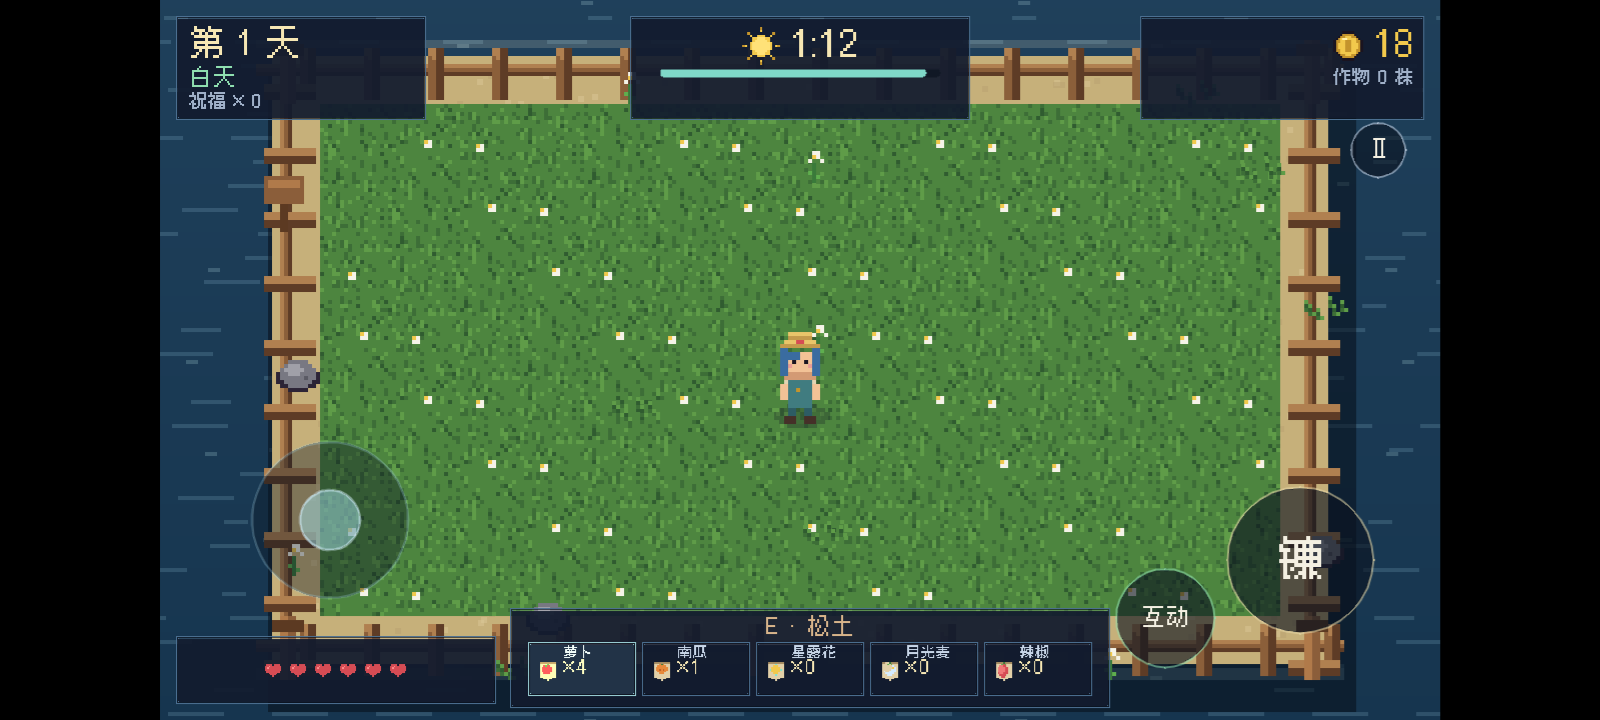
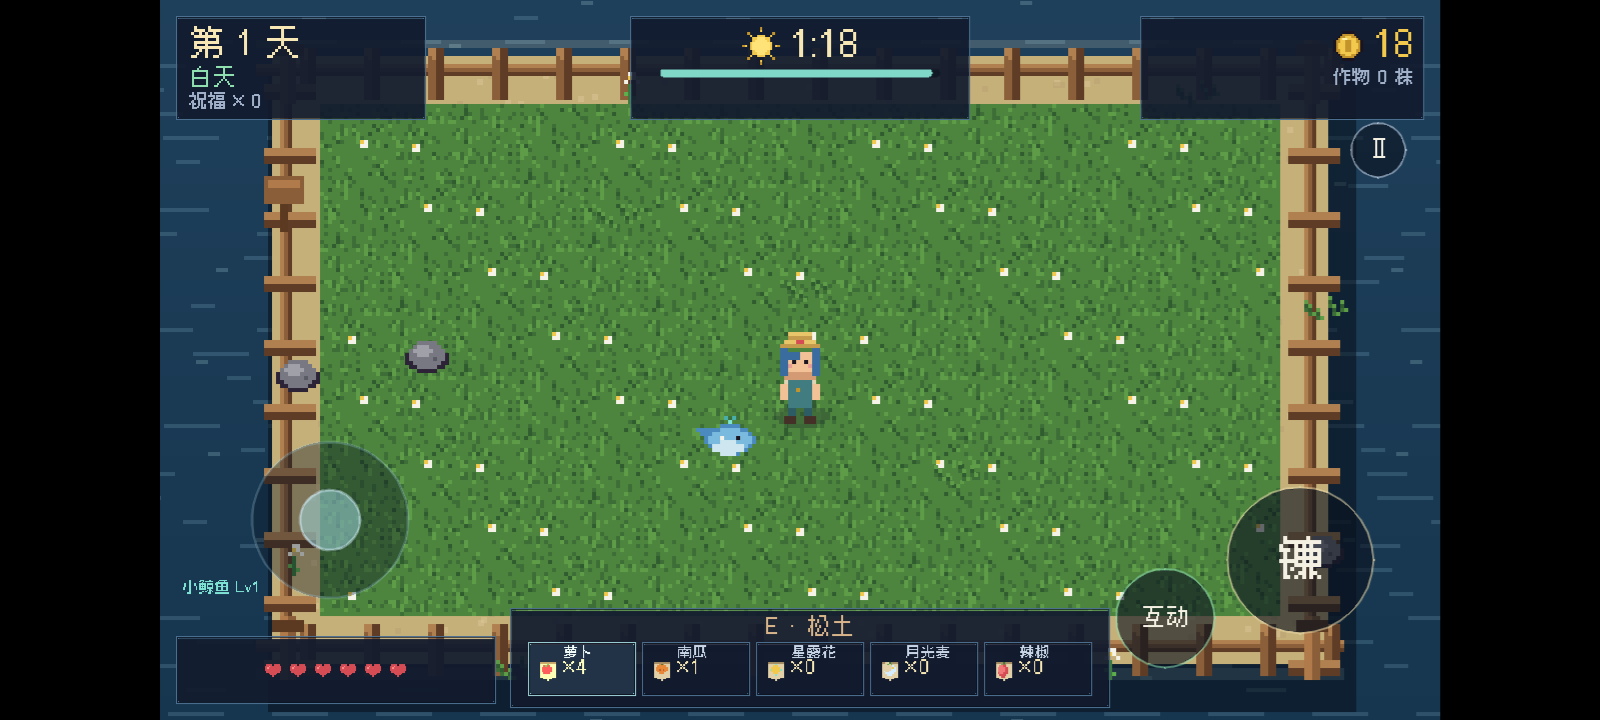
v2.0.0: 20 updates complete (pet levels, mist harbor, performance, final balance)

diff --git a/README.md b/README.md
@@ -11,6 +11,7 @@
 ![雨天](screenshots/shot_rain.png)
 ![雷雨](screenshots/shot_storm.png)
 ![图鉴](screenshots/shot_codex.png)
+![雾港](screenshots/shot_mist.png)
 ![南瓜王](screenshots/shot_boss.png)
 
 ## 玩法
@@ -21,8 +22,9 @@
 - **黎明**：三选一随机祝福，然后可以在**潮汐商店**用金币买种子、回血、加生命上限。
 - **成就**：8 个成就（首收、50 收、50 杀、第 5 天、Boss、无尽 10 天、金色作物、雷雨）解锁时弹横幅并写入存档。
 - **农场图鉴 / 统计**：标题界面打开图鉴，查看已发现的作物、怪物、祝福；统计页记录游玩局数、最佳天数、累计收获/击杀/金币。
+- **第二张地图「雾港」**：通关过一局后，约 30% 的局会进入雾港——冷色调、淡雾、作物生长 +15%，夜里多一只怪。
 - **每日挑战**：标题界面按当天日期生成固定种子，同一天所有玩家地形/天气/祝福一致；本地记录每日最佳天数。
-- **小鲸鱼**：开局跟随玩家，自动攻击附近的怪物；收获作物会让它成长（每 10 个收获升 1 级）。
+- **小鲸鱼**：开局跟随玩家，自动攻击附近的怪物；收获作物会让它成长（每 10 个收获升 1 级，等级显示在左下）。
 - **设置**：暂停菜单可关震屏、弱化闪光、开自动瞄准；手机端还有震动开关。
 - **第 7 夜**：腐化南瓜王苏醒。它会吐种子弹、在血量过半和残血时召唤潮泥怪；打倒它才能迎来胜利。
 - **无尽模式**：通关后可以继续。每 3 天再战一次南瓜王，怪潮越来越厚，直到农场沉没。最佳纪录按存活天数结算。
@@ -65,8 +67,8 @@
 
 到 [Releases](https://github.com/ElectLive/whale-fall-farm/releases) 下载最新版：
 
-- Windows：`WhaleFallFarm-v1.6.0-win64.zip` — 解压双击 `WhaleFallFarm.exe`，绿色免安装，存档在 exe 旁边。
-- Android：`WhaleFallFarm-v1.6.0-android.apk` — Android 7.0+ / arm64，允许「安装未知来源应用」即可安装。APK 使用调试证书签名，适合直接安装试玩，不适合上架应用商店。
+- Windows：`WhaleFallFarm-v2.0.0-win64.zip` — 解压双击 `WhaleFallFarm.exe`，绿色免安装，存档在 exe 旁边。
+- Android：`WhaleFallFarm-v2.0.0-android.apk` — Android 7.0+ / arm64，允许「安装未知来源应用」即可安装。APK 使用调试证书签名，适合直接安装试玩，不适合上架应用商店。
 
 ## 从源码运行
 
@@ -111,7 +113,7 @@ python tools/gen_audio.py   # 4 首循环 BGM + 17 个音效 + 1 条雨声（需
 
 ```bash
 # 无头逻辑测试：种田、昼夜、商店、祝福、Boss、无尽、天气、移动端触控、存档
-Godot --headless --path . -- --selftest     # 68/68 PASS
+Godot --headless --path . -- --selftest     # 71/71 PASS
 
 # 实时冒烟测试：真的种一轮、传送到怪身边砍死几只、进入黎明
 Godot --headless --path . -- --smoke
@@ -134,6 +136,8 @@ scripts/
   sea.gd / island.gd    鲸背小岛与海面
   hud.gd                HUD、Boss 血条、横幅提示、低血量红框
   mobile_controls.gd    手机虚拟摇杆与触控按钮
+  pet.gd                小鲸鱼宠物（跟随/自动攻击/升级）
+  codex_screen.gd       农场图鉴与终身统计
   title_screen.gd       标题界面
   dawn_screen.gd        黎明祝福三选一 + 潮汐商店
   end_screen.gd         结算界面
@@ -171,6 +175,17 @@ docs/
 - **v1.4.0** — 4 个新祝福（暴击/收割回血/夜战/点金手）；新怪物「铁甲虫」（护甲减伤）；雾天与雷雨天气（闪电、雨声、自动浇水）；8 个成就与解锁横幅。
 - **v1.5.0** — 农场图鉴与终身统计；无尽 Boss 词缀（狂暴/再生/召唤）；精英怪（双倍生命与金币）；图鉴/统计界面。
 - **v1.6.0** — 每日挑战（日期种子）；小鲸鱼宠物（跟随/自动攻击/成长）；震屏、闪光弱化、自动瞄准设置；暂停菜单两行设置。
+- **v2.0.0** — 20 次更新完成：小鲸鱼等级与喂养成长、第二张地图「雾港」、移动端粒子降级/FPS 上限/存档版本迁移、最终平衡（白天 80 秒）与完整文档。
+
+## 20 次更新记录
+
+| 批次 | 内容 | 发布 |
+| --- | --- | --- |
+| 01–04 | 手机震动/自动暂停、农事 QoL、辣椒 + 5 格种子栏、金色作物 | [v1.3.0](https://github.com/ElectLive/whale-fall-farm/releases/tag/v1.3.0) |
+| 05–08 | 4 个新祝福、铁甲虫、雾/雷雨天气、8 个成就 | [v1.4.0](https://github.com/ElectLive/whale-fall-farm/releases/tag/v1.4.0) |
+| 09–12 | 农场图鉴、终身统计、无尽 Boss 词缀、精英怪 | [v1.5.0](https://github.com/ElectLive/whale-fall-farm/releases/tag/v1.5.0) |
+| 13–16 | 每日挑战、震屏/闪光/自动瞄准、小鲸鱼宠物 | [v1.6.0](https://github.com/ElectLive/whale-fall-farm/releases/tag/v1.6.0) |
+| 17–20 | 宠物等级、雾港地图、移动端性能、v2.0.0 完整版 | [v2.0.0](https://github.com/ElectLive/whale-fall-farm/releases/tag/v2.0.0) |
 
 ## License
 

diff --git a/CHANGELOG.md b/CHANGELOG.md
@@ -3,6 +3,22 @@
 All notable changes to Whale Fall Farm are documented here.
 Format follows [Keep a Changelog](https://keepachangelog.com/); versions use semver.
 
+## v2.0.0 — 2026-10-29（更新 17–20，完整版）
+
+### Added
+
+- **Pet leveling**: harvests grant pet XP (10 per level); level raises attack damage and shortens attack cooldown; HUD shows `小鲸鱼 LvN`.
+- **Second biome 雾港 (Mist Harbor)**: after the first run, ~30% of runs start in a cooler, foggy harbor: crops grow 15% faster, nights add one slime, island/sea are tinted.
+- Save version field (`save_version=2`) with safe defaults for older saves.
+- Final title badge, 20-update table and full documentation.
+
+### Changed
+
+- Day length 75s → 80s for the final balance pass.
+- FPS capped at 60; mobile halves firefly and rain particle counts.
+- `OS.low_processor_usage_mode` enabled.
+- README, design doc, devlog, changelog and release notes complete the 20-update plan.
+
 ## v1.6.0 — 2026-10-29
 
 ### Added
@@ -151,7 +167,8 @@ Format follows [Keep a Changelog](https://keepachangelog.com/); versions use sem
 - Fully procedural pixel art (Pillow), chiptune music and SFX (numpy), Cubic 11 font.
 - Headless self-test (`--selftest`), real-time smoke test (`--smoke`), screenshot tooling.
 
-[Unreleased]: https://github.com/ElectLive/whale-fall-farm/compare/v1.6.0...main
+[Unreleased]: https://github.com/ElectLive/whale-fall-farm/compare/v2.0.0...main
+[v2.0.0]: https://github.com/ElectLive/whale-fall-farm/releases/tag/v2.0.0
 [v1.6.0]: https://github.com/ElectLive/whale-fall-farm/releases/tag/v1.6.0
 [v1.5.0]: https://github.com/ElectLive/whale-fall-farm/releases/tag/v1.5.0
 [v1.4.0]: https://github.com/ElectLive/whale-fall-farm/releases/tag/v1.4.0

diff --git a/docs/devlog.md b/docs/devlog.md
@@ -1,5 +1,21 @@
 # 开发日志
 
+## v2.0.0 — 2026-10-29（更新 17–20，完整版）
+
+### 内容
+
+- **更新 17**：小鲸鱼等级：收获 +1 XP，10 XP 升 1 级；等级提升攻击力、缩短攻击间隔，HUD 左下显示等级。
+- **更新 18**：第二张地图「雾港」：通关过一局后 30% 概率进入；冷色岛/海、淡雾、作物生长 +15%、夜潮多 1 只史莱姆，HUD 显示「雾港」。
+- **更新 19**：FPS 上限 60、移动端萤火虫/雨丝粒子减半、低功耗模式、存档版本字段（`save_version=2`）。
+- **更新 20**：最终平衡（白天 80 秒）、标题 v2.0.0 纪念版、README/CHANGELOG/设计文档/20 次更新表补全。
+
+### 验证记录
+
+- `--selftest`：**71/71 PASS**（宠物升级、雾港生长加成、FPS 上限）。
+- 截图：mist 雾港场景、title/pause/day 更新。
+- 版本 2.0.0，Android versionCode 8。
+- 20 次更新全部提交并推送，5 个版本节点均带 Windows + Android 构建。
+
 ## v1.6.0 — 2026-10-29（更新 13–16）
 
 ### 内容

diff --git a/docs/design.md b/docs/design.md
@@ -118,6 +118,19 @@
 - 每 1.8s（随等级缩短）攻击 78px 内最近的怪物，伤害 = 等级；升级需要 10 个作物收获。
 - 纯装饰 + 轻战斗辅助，不参与碰撞、不被怪物攻击。
 
+### 雾港
+
+- 通关过至少一局后，30% 的局会以 `biome="mist"` 开局（用种子末位判定，每日挑战同样适用）。
+- 岛屿/海面 modulate 冷色（0.80,0.90,1.0 / 0.72,0.84,1.0），全天叠 6% 淡雾。
+- 规则差异：作物生长 +15%，夜潮额外 1 只史莱姆；HUD 阶段显示「雾港 · 白天/夜晚」。
+- 标题界面/回到标题时恢复 modulate 与雾层。
+
+### 性能
+
+- 全局 `Engine.max_fps=60`，`OS.low_processor_usage_mode=true`。
+- 移动端萤火虫与雨丝粒子数量减半。
+- 存档增加 `meta/save_version`；旧存档缺字段时用默认值，新增字段向后兼容。
+
 ### 图鉴与档案
 
 - 标题界面「农场图鉴」打开 `CodexScreen`：作物、怪物、祝福三块；未发现显示 ？？？。

diff --git a/docs/updates20.md b/docs/updates20.md
@@ -38,7 +38,7 @@
 - [x] 17. 宠物等级与喂养动画
 - [x] 18. 第二张地图「雾港」（新配色与规则）
 - [x] 19. 性能与稳定性（移动端粒子降级、FPS 上限、存档迁移）
-- [ ] 20. 最终平衡、标题翻新、完整文档与 v2.0.0 发布
+- [x] 20. 最终平衡、标题翻新、完整文档与 v2.0.0 发布
 
 ## 验证约定
 
